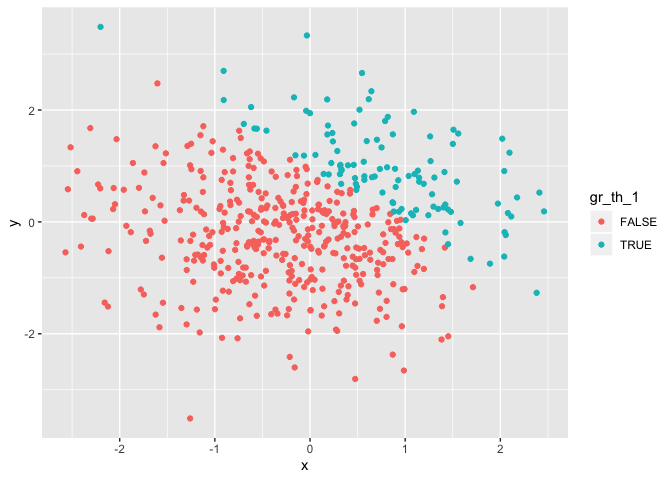
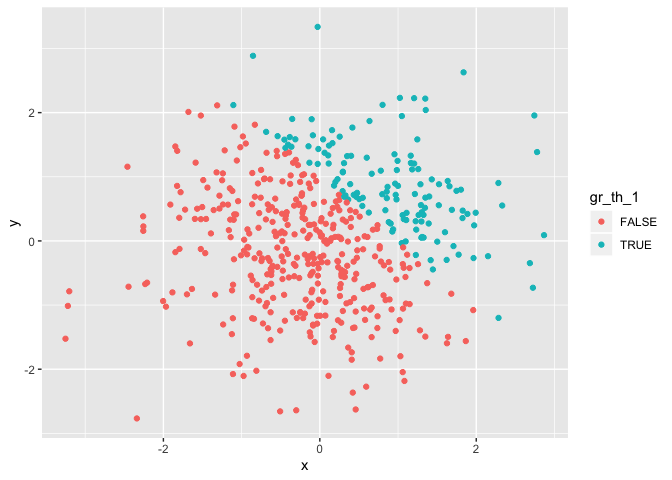
added new text commenting on the color scales for the three scatterplots

diff --git a/p8105_hw1_lk2761.md b/p8105_hw1_lk2761.md
@@ -25,7 +25,7 @@ Now I will take the mean of each variable in the data
 mean(pull(sample_df, sample))
 ```
 
-    ## [1] -0.08020953
+    ## [1] 0.02762999
 
 ``` r
 mean(pull(sample_df, gr_th_0)) 
@@ -99,8 +99,8 @@ gr_th_0_numeric = as.numeric(pull(sample_df, gr_th_0))
 gr_th_0_numeric*pull(sample_df, sample)
 ```
 
-    ## [1] 0.00000000 0.98411978 0.05433742 0.78624800 0.00000000 0.78546448
-    ## [7] 0.00000000 0.00000000
+    ## [1] 0.5860831 0.0000000 0.1738200 0.1661140 0.0000000 0.0000000 1.3072273
+    ## [8] 0.0000000
 
 ``` r
 gr_th_0_factor = as.factor(pull(sample_df, gr_th_0))
@@ -118,8 +118,8 @@ gr_th_0_numeric_2 = as.numeric(gr_th_0_factor_2)
 gr_th_0_numeric_2*pull(sample_df, sample)
 ```
 
-    ## [1] -0.3407867  1.9682396  0.1086748  1.5724960 -0.2084903  1.5709290
-    ## [7] -1.4713417 -1.2312272
+    ## [1]  1.1721662 -0.4193936  0.3476399  0.3322280 -0.1298880 -1.0573111
+    ## [7]  2.6144546 -0.4056117
 
 ## Problem 2
 
@@ -140,14 +140,25 @@ plot_df = tibble(
 
 The size of the dataset is 500 by 5.
 
-The mean of x is -0.090815.
+The mean of x is 0.0183761.
 
-The median of x is -0.0545494.
+The median of x is -0.0144702.
 
-The standard deviation of x is 0.9685685.
+The standard deviation of x is 1.0029488.
 
-This code chunk makes a scatterplot of y
-vs. x.
+This code chunk makes a scatterplot of y vs. x. The first scatterplot
+consists of color points using the logical variable, **gr\_th\_1**,
+which indicates whether x + y is greater than 1. In this scatterplot,
+the coral represents “False” and the blue represents “True.” The second
+scatterplot uses the numeric variable, **gr\_th\_1\_num**, for color
+points. In this scatterplot, the legend shows a blue gradient but the
+plot itself only consists of two colors: the dark blue represents “0,”
+which is the numeric equivalent to “False,” and the light blue
+represents “1” which is the numeric equivalent to “True.” The third
+scatterplot uses the factor variable, **gr\_th\_1\_fac**, for color
+points. In this scatterplot, the coral represents “False” and the blue
+represents
+“True.”
 
 ``` r
 ggplot(plot_df, aes(x = x, y = y, color = gr_th_1)) + geom_point()
